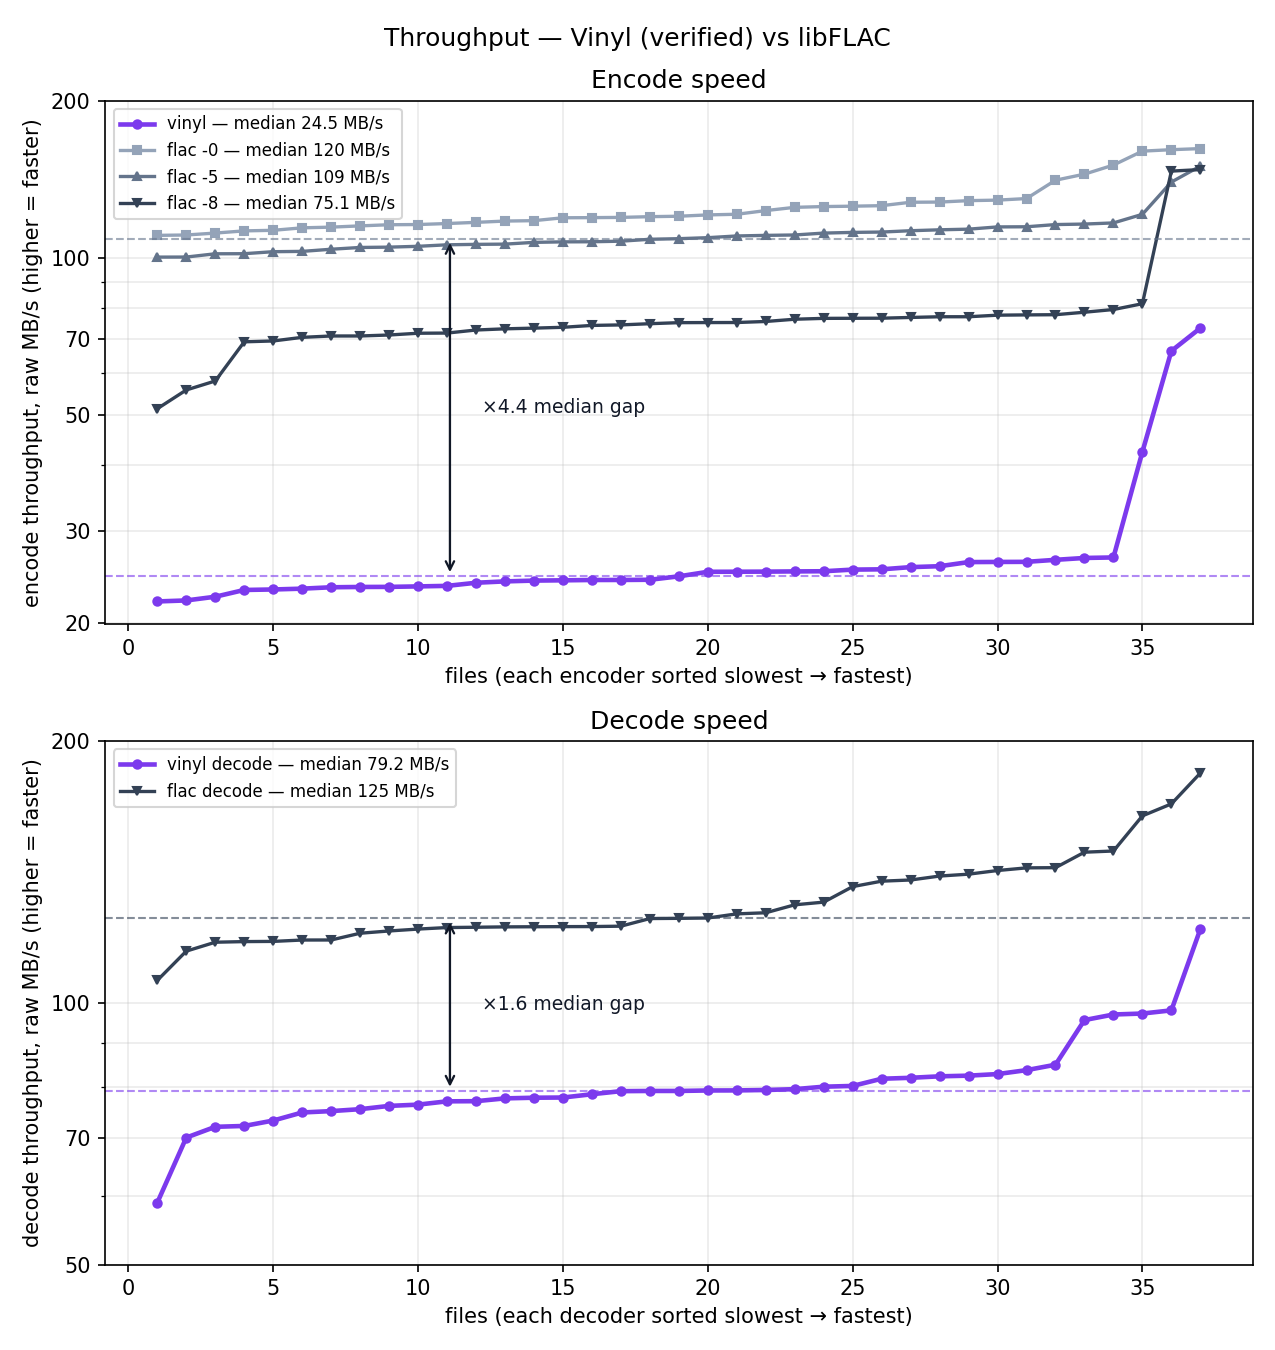
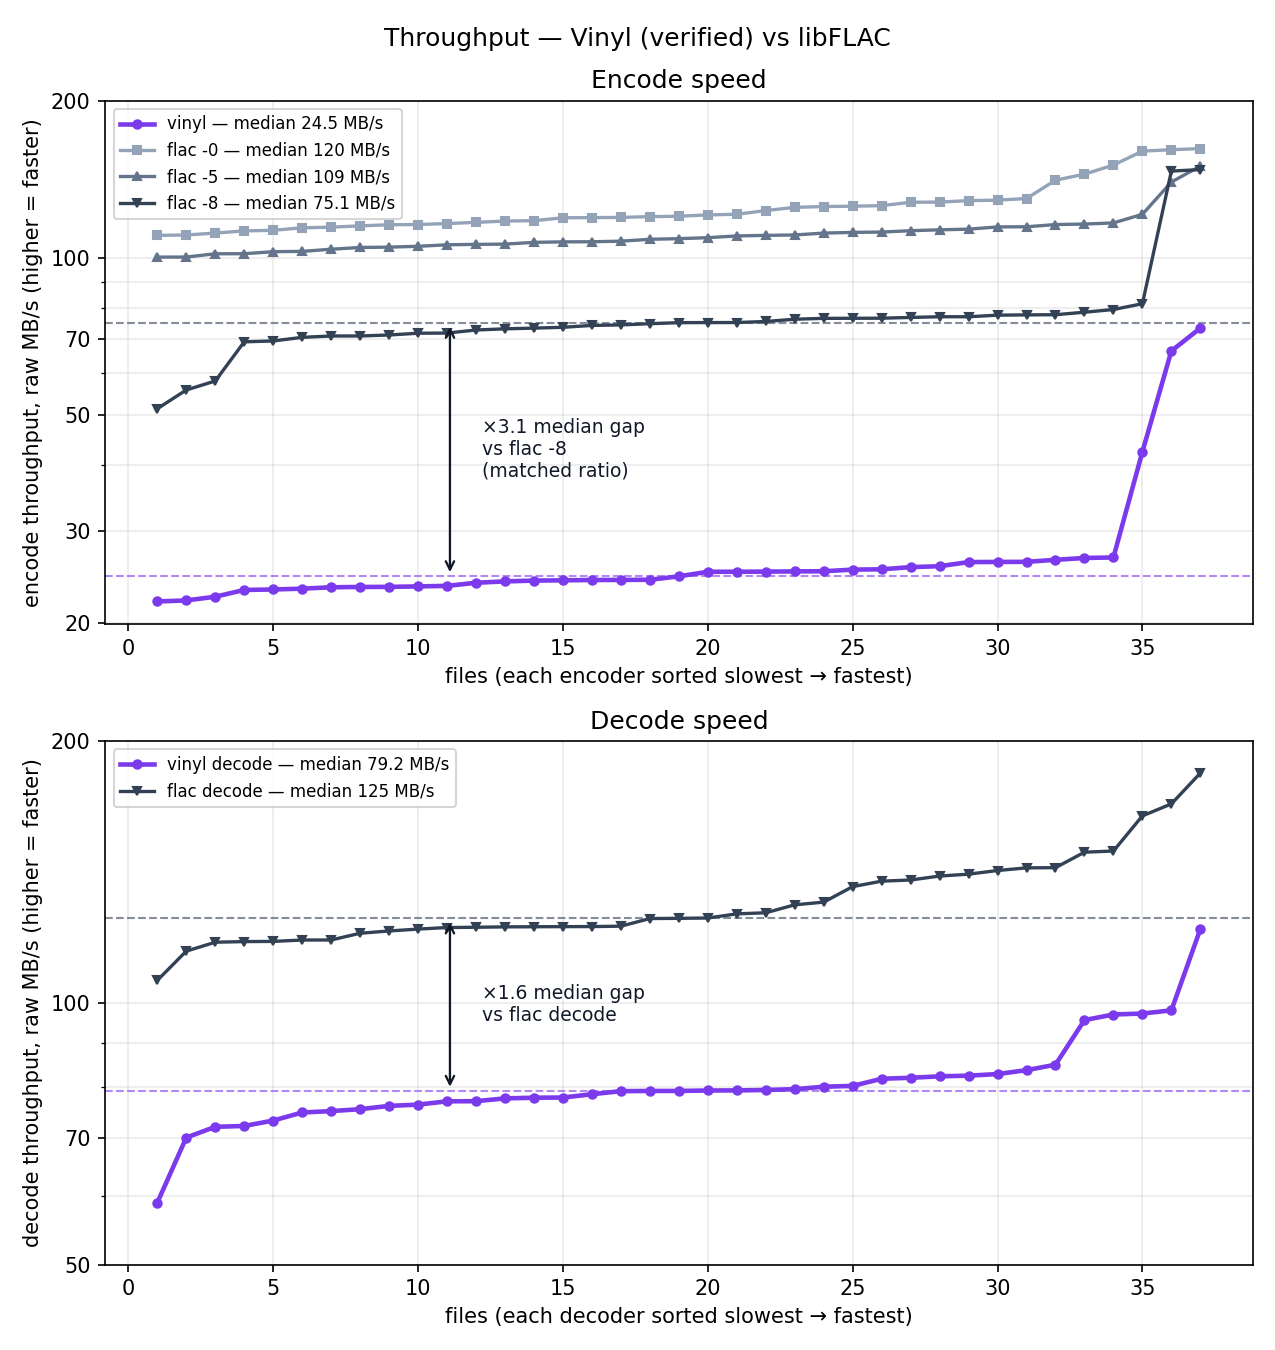
Plot the encode gap against flac -8, the compression-matched preset
The encode panel measured its median gap against flac -5, which Vinyl
does not compress like; flac -8 is the preset whose ratio Vinyl matches
and so the like-for-like speed baseline. Both arrows now name the
baseline they are drawn against.

Changed region(s): [[0.3671, 0.28, 0.4894, 0.3733], [0.3671, 0.7156, 0.52, 0.7778], [0.3365, 0.2178, 0.3671, 0.2489]]

diff --git a/bench/plot.py b/bench/plot.py
@@ -85,10 +85,10 @@ fig.savefig(os.path.join(out_dir, "compression.png"))
 print("wrote compression.png")
 
 # ── performance: encode + decode throughput profiles ────────────────────
-def throughput_panel(ax, styles, kind, gap_pair):
+def throughput_panel(ax, styles, kind, gap_pair, gap_note=""):
     """Log-scale profile with readable scalar ticks, medians in the legend,
     and an arrow marking the median gap between the two encoders in
-    gap_pair (vinyl vs its libFLAC counterpart)."""
+    gap_pair (vinyl vs the libFLAC baseline it should be judged against)."""
     n = 0
     for enc in styles:
         if enc not in speed:
@@ -118,14 +118,17 @@ def throughput_panel(ax, styles, kind, gap_pair):
         ax.annotate("", xy=(x, hi_med), xytext=(x, lo_med),
                     arrowprops=dict(arrowstyle="<->", color="#111827", lw=1.1))
         ax.text(x + n * 0.03, math.sqrt(lo_med * hi_med),
-                f"×{hi_med / lo_med:.1f} median gap",
+                f"×{hi_med / lo_med:.1f} median gap\nvs {hi}{gap_note}",
                 va="center", fontsize=9, color="#111827")
     ax.set_title(f"{kind.capitalize()} speed")
     ax.grid(alpha=0.25, which="both")
     ax.legend(fontsize=8)
 
 fig2, (ax2, ax4) = plt.subplots(2, 1, figsize=(8.5, 9), dpi=150)
-throughput_panel(ax2, STYLE, "encode", ("vinyl", "flac -5"))
+# Encode is judged against `flac -8`: that is the preset whose compression
+# Vinyl matches, so it is the like-for-like speed baseline.
+throughput_panel(ax2, STYLE, "encode", ("vinyl", "flac -8"),
+                 gap_note="\n(matched ratio)")
 throughput_panel(ax4, DEC_STYLE, "decode", ("vinyl decode", "flac decode"))
 fig2.suptitle("Throughput — Vinyl (verified) vs libFLAC")
 fig2.tight_layout()
